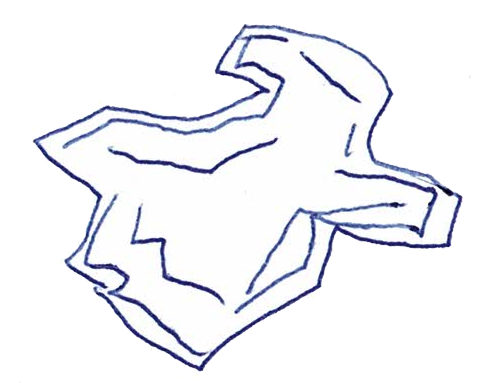
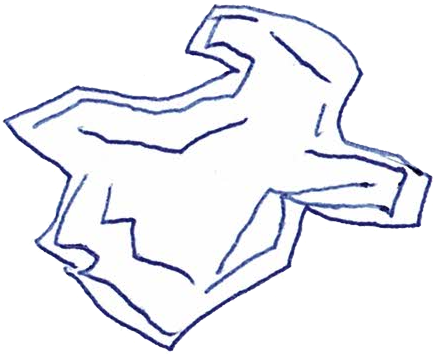
Asteroids now bounce Hit detection on ship Better edge detection

Changed region(s): [[0.0, 0.0, 1.0, 0.9944]]

diff --git a/lib/mobile.py b/lib/mobile.py
@@ -21,19 +21,27 @@ class Mobile(pygame.sprite.Sprite):
             move_vec.from_polar((self.speed, self.angle))
             new_x = pos[0] + move_vec[0]
             new_y = pos[1] - move_vec[1]
-            self.rect.center = self.get_boundary_correct_pos(new_x, new_y)
+            new_pos = self.get_boundary_correct_pos(new_x, new_y)
+            new_pos = self.fix_boring_angles(pos, new_pos)
+            self.rect.center = new_pos
+
+    # Does nothing here, but allows for correction in subclasses
+    def fix_boring_angles(self, old_pos, new_pos):
+        return new_pos
 
     # This function takes your x and y and wraps those around the screen if required.
     # I leave a ghost area of half the size of your ship outside of the game bounds
     def get_boundary_correct_pos(self, x, y):
-        if x > (self.gameconfig.screen_width + self.rect.width / 2):
-            x = 0
-        elif x < 0:
-            x = self.gameconfig.screen_width
-        if y > (self.gameconfig.screen_height + self.rect.height / 2):
-            y = 0
-        elif y < 0:
-            y = self.gameconfig.screen_height
+        half_height = self.rect.height
+        half_width = self.rect.width
+        if x > (self.gameconfig.screen_width + half_width):
+            x = 0 - half_width
+        elif x + half_width < 0:
+            x = self.gameconfig.screen_width + half_width
+        if y > (self.gameconfig.screen_height + half_height):
+            y = 0 - half_height
+        elif y + half_height < 0:
+            y = self.gameconfig.screen_height + half_height
         return round(x), round(y)
 
     def get_starting_pos(self):

diff --git a/lib/asteracoidsgame.py b/lib/asteracoidsgame.py
@@ -6,6 +6,9 @@ from lib.player import Player
 class AsteracoidsGame:
     def __init__(self, gameconfig):
         self.gameconfig = gameconfig
+        self.restart()
+
+    def restart(self):
         player_sprite = Player(self.gameconfig)
         self.player = pygame.sprite.GroupSingle(player_sprite)
         self.asteroids = pygame.sprite.Group()
@@ -15,7 +18,27 @@ class AsteracoidsGame:
     def updates(self):
         self.asteroids.update()
         self.player.update()
+        self.check_collisions()
 
     def draws(self, screen):
         self.asteroids.draw(screen)
         self.player.sprite.draw_extended(screen)
+
+
+    def check_collisions(self):
+        dead = False
+
+
+        for asteroid in self.asteroids.sprites():
+            if pygame.sprite.collide_mask(asteroid, self.player.sprite):
+                dead = True
+                break
+            for asteroid_boink in self.asteroids.sprites():
+                if asteroid_boink is not asteroid:
+                    if pygame.sprite.collide_mask(asteroid, asteroid_boink):
+                        # Faking a correct bounce by rotating our asteroid an extra 90 degrees
+                        asteroid.angle = (asteroid.angle + 90) % 360
+
+        if dead:
+            self.restart()
+

diff --git a/lib/gameconfig.py b/lib/gameconfig.py
@@ -4,25 +4,35 @@ from dataclasses import dataclass
 class GameConfig:
     # Speed buildup for the player ship per frame
     player_speed: float = 0.1
+
     # Max speed for the player ship per frame
     player_max_speed: float = 10
+
     # Player turn speed
     player_rotate_speed: float = 20
+
     # Momentum loss
     momentum_loss: float = 0.05
+
     # Player image scale factor
     player_image_scale: int = 30
+
     # Asteroid minimal speed at zero level
     asteroid_min_speed: float = 0.6
+
     # Asteroid max speed at zero level
     asteroid_max_speed: float = 1.5
+
     # Asteroid minimal speed at zero level
-    asteroid_min_scale: float = 70
+    asteroid_min_scale: float = 100
+
     # Asteroid max speed at zero level
-    asteroid_max_scale: float = 100
+    asteroid_max_scale: float = 120
+
     # Asteroid minimum spawn distance from player
     asteroid_spawn_distance: int = 50
+
     # Asteroids spawning in level 1
-    asteroids_level_1: int = 2
+    asteroids_level_1: int = 4
     screen_width: int = 600
     screen_height: int = 600

diff --git a/lib/asteroid.py b/lib/asteroid.py
@@ -20,8 +20,18 @@ class Asteroid(Mobile):
         self.speed = random.uniform(gameconfig.asteroid_min_speed,
                                     gameconfig.asteroid_max_speed)
 
+    # Does nothing here, but allows for correction in subclasses
+    def fix_boring_angles(self, old_pos, new_pos):
+        x = new_pos[0]
+        if old_pos[0] == x:
+            x += 1
+        y = new_pos[1]
+        if old_pos[1] == y:
+            y -= 1
+        return x, y
+
     def get_random_angle(self, no_boring=False):
-        # We need to prevent boring angles like 0, 90, etc. @todo it's not working
+        # We need to prevent boring angles like 0, 90, etc.
         if no_boring:
             return random.choice(Asteroid.random_angles)
         else:

diff --git a/lib/player.py b/lib/player.py
@@ -10,6 +10,7 @@ class Player(Mobile):
         self.burning = False
         self.default_image = pygame.image.load(self.imagename).convert_alpha()
         self.engine_image = pygame.image.load("resources/player_flaming.png").convert_alpha()
+        self.dead = False
         super().__init__(gameconfig)
 
     def get_starting_pos(self):

diff --git a/README.md b/README.md
@@ -1,2 +1,18 @@
-# asteracoids
-The classic asteroids game in pygame
+# Asteracoids
+The classic asteroids game in pygame. The goal of this project is to showcase pygame and class hierarchy in a game. 
+
+It might look like a simple game, but Asteroids has some mechanics that I found complicated. Things to consider before diving into this code: 
+- Objects wrap around the screen. If you exit left, you should appear on the right side.
+- Objects move in angles, so you'll need to work with vectors (ie. angle and speed), which is harder then doing just x,y speeds. Trigonometry is actually a useful class. 
+- The player ship rotates and rotation in pygame is a two part problem - you have to rotate both the image and the actual object.
+
+
+# Class description
+| Class | Parent | Role |
+| --- | --- | --- | 
+| GameConfig |  | This is a python dataclass that holds all the game variables. If you want to tune any of the parameters do it here. If you are not familiar with dataclasses, see this [great explanation](https://stackoverflow.com/questions/47955263/what-are-data-classes-and-how-are-they-different-from-common-classes) | 
+| GameSetup |  | I seperated the bootstrapping stuff like showing the screen from the game logic. This class contains the meta things and should be responsible for starting and stopping | 
+| AsteracoidsGame |  | The class that handles the game logic and game objects. As pygame goes, every game frame has a setup phase ("updates") and a drawing phase ("draws") | 
+| Mobile | pygame.sprite.Sprite | In asteroids all objects on the screen have to deal with movement and with screen wraparound. This class assumes every object to have an angle and speed which can be managed in the subclasses | 
+| Player | Mobile | The player ship. It has some interesting rotation mechanics (as rotation is HARD in pygame) and handles button pushes | 
+| Asteroid | Mobile | The flying blocks | 
